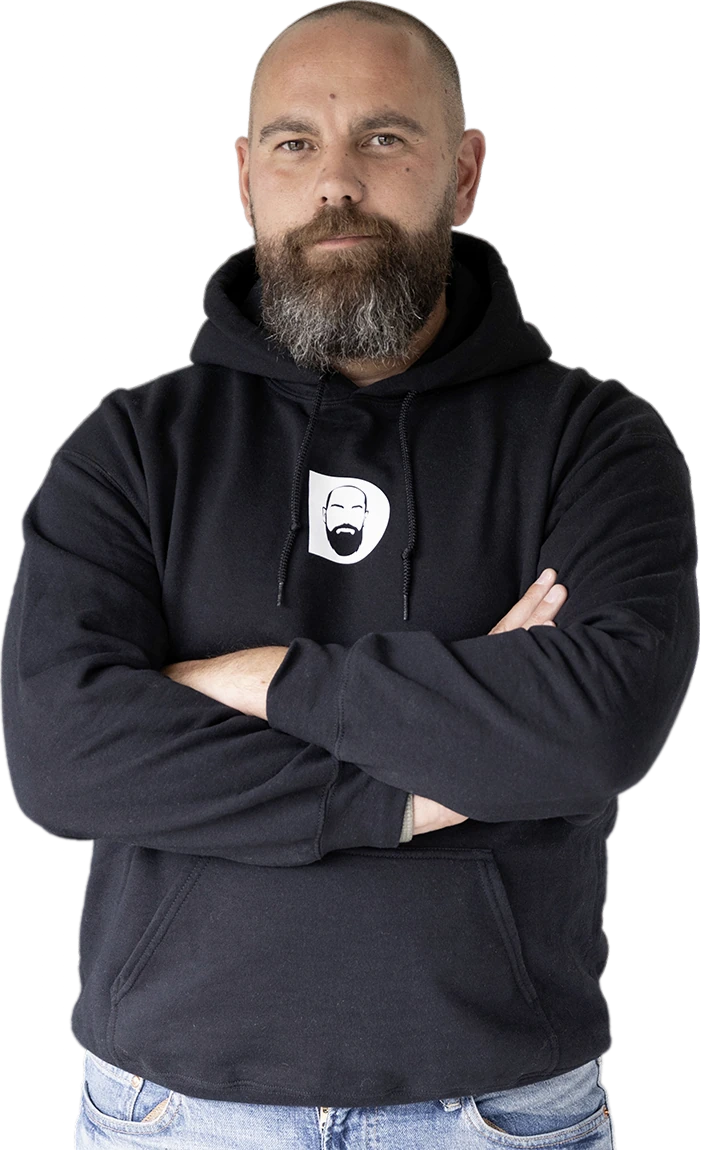
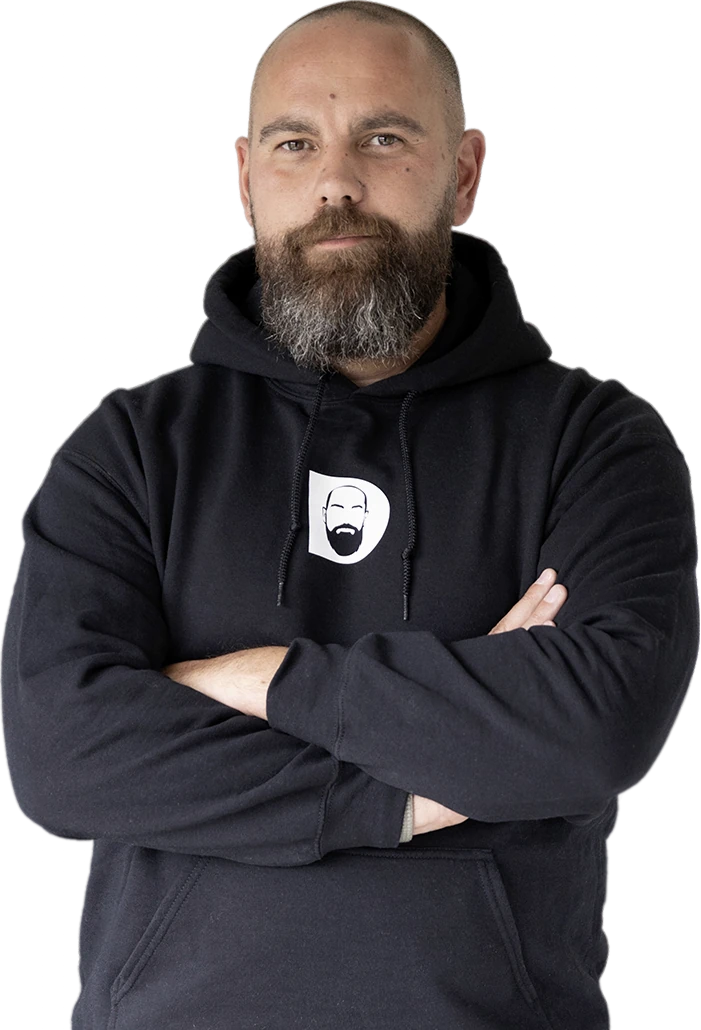
Hero-Fotos: kompakter zugeschnitten (weniger Höhe), Verlauf setzt früher an (86%)

diff --git a/css/style.css b/css/style.css
@@ -235,8 +235,8 @@ body.nav-locked { overflow: hidden; }
 .portrait-cut {
   width: 100%; max-width: 520px; height: auto;
   /* weicher Auslauf unten, damit der freigestellte Zuschnitt nicht "schwebt" */
-  -webkit-mask-image: linear-gradient(to bottom, #000 80%, transparent 100%);
-  mask-image: linear-gradient(to bottom, #000 80%, transparent 100%);
+  -webkit-mask-image: linear-gradient(to bottom, #000 86%, transparent 100%);
+  mask-image: linear-gradient(to bottom, #000 86%, transparent 100%);
 }
 
 /* dezenter radialer Glow hinter dem Portrait */

diff --git a/index.html b/index.html
@@ -136,7 +136,7 @@
     </div>
     <div class="hero__media reveal" data-delay="1">
       <!-- BILD: Dennis Porträt hero_dennis_portrait.webp – freigestellt, transparenter Hintergrund. Aktuell: designj_dennis_jaehring_uebermich.webp -->
-      <img class="portrait-cut" src="images/dennis_hero_start.webp" alt="Dennis Jähring – Inhaber der Werbeagentur DESIGNJ aus Weiden" width="903" height="1600" fetchpriority="high">
+      <img class="portrait-cut" src="images/dennis_hero_start.webp" alt="Dennis Jähring – Inhaber der Werbeagentur DESIGNJ aus Weiden" width="903" height="1340" fetchpriority="high">
     </div>
   </div>
 </section>

diff --git a/ueber-mich.html b/ueber-mich.html
@@ -110,7 +110,7 @@
     </div>
     <div class="hero__media reveal" data-delay="1">
       <!-- BILD: dennis_portrait_main.webp – Hauptporträt Dennis im Container-Büro. Aktuell: freigestelltes Portrait. -->
-      <img class="portrait-cut" src="images/dennis_hero_ueber.webp" alt="Dennis Jähring – Inhaber DESIGNJ, Werbeagentur Weiden" width="701" height="1150">
+      <img class="portrait-cut" src="images/dennis_hero_ueber.webp" alt="Dennis Jähring – Inhaber DESIGNJ, Werbeagentur Weiden" width="701" height="1030">
     </div>
   </div>
 </section>